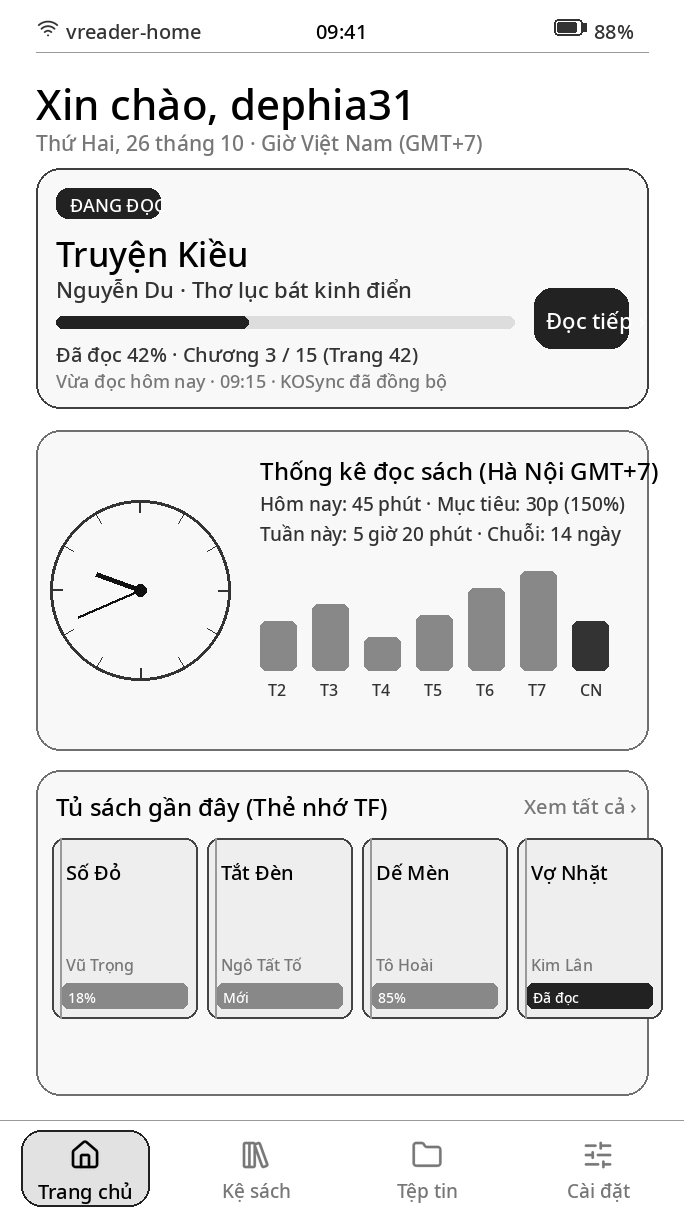
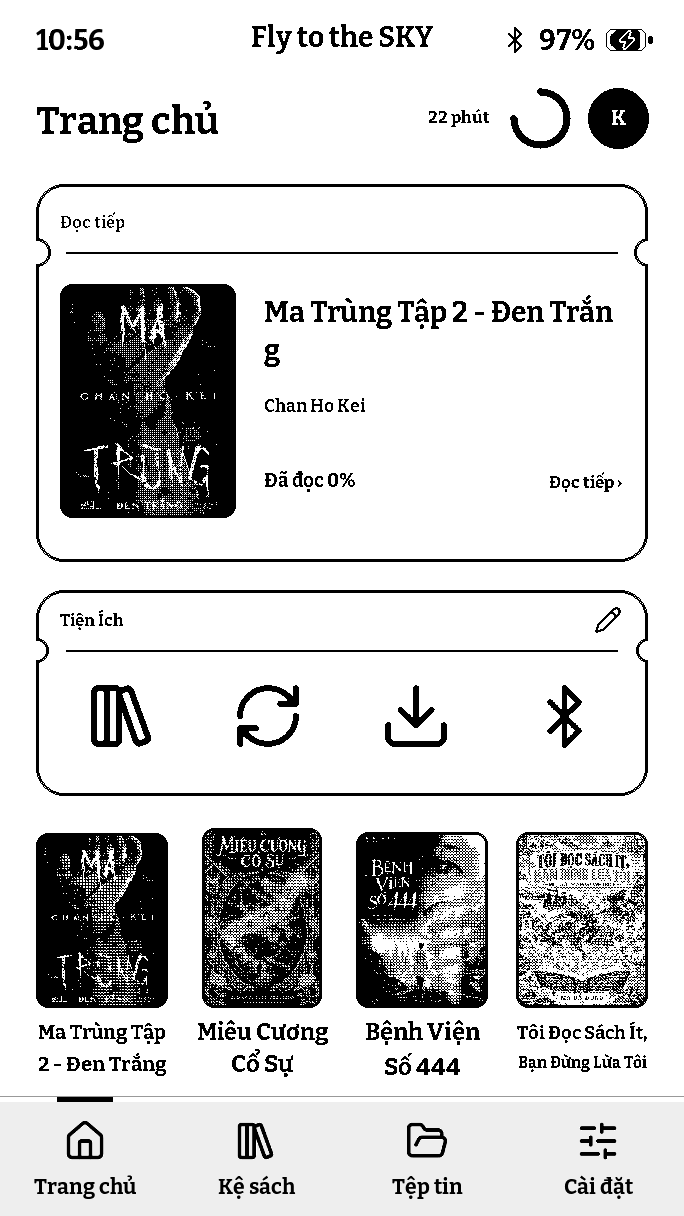
docs: show current Home and utility settings from device captures

Changed region(s): [[0.0307, 0.0, 0.9825, 1.0], [0.2149, 0.0, 0.2763, 0.0312], [0.7368, 0.0312, 0.7675, 0.0625]]

diff --git a/README.md b/README.md
@@ -1,7 +1,7 @@
 # dpReader — Firmware Đọc Sách Tiếng Việt Chuyên Biệt cho Metalio E-ink 4 Plus (`metalio4.7`)
 
 <p align="center">
-  <img src="docs/screenshots/00_overview_banner.png" alt="dpReader Overview Banner" width="100%">
+  <img src="docs/screenshots/01_home_dashboard.png" alt="Trang chủ dpReader 1.2.5 — ảnh chụp từ thiết bị" width="320">
 </p>
 
 <p align="center">
@@ -16,12 +16,14 @@
 
 ---
 
-## 📸 Giao diện Thực tế Firmware dpReader
+## 📸 Giao diện dpReader
 
-| Trang chủ (`app_dashboard.c`) | Kệ sách & Hộp thoại nạp sách (`app_book.c`) |
+Ảnh Home và thiết lập Tiện Ích được lấy trực tiếp từ bộ đệm màn hình thiết bị chạy giao diện 1.2.5. Các ảnh minh họa cũ bên dưới sẽ được thay dần theo giao diện hiện tại.
+
+| Home mới | Thiết lập Tiện Ích |
 | :---: | :---: |
-| <img src="docs/screenshots/01_home_dashboard.png" width="360" alt="Trang chủ dpReader"> | <img src="docs/screenshots/02_bookshelf.png" width="360" alt="Kệ sách Tiếng Việt"> |
-| *Thẻ Đọc tiếp, Đồng hồ Analog, Thống kê đọc trong tháng (GMT+7)* | *Lưới kệ sách tác phẩm kinh điển & Menu nạp sách WiFi / OPDS* |
+| <img src="docs/screenshots/01_home_dashboard.png" width="360" alt="Home dpReader 1.2.5 chụp từ thiết bị"> | <img src="docs/screenshots/08_home_utilities_settings.png" width="360" alt="Thiết lập 4 shortcut, nhãn và viền icon"> |
+| *Đọc tiếp, Tiện Ích ẩn nhãn/viền và 4 sách từng đọc.* | *Chọn 4 shortcut; bật/tắt nhãn và viền, rồi lưu cùng cấu hình.* |
 
 | Màn hình đọc sách & KOSync (`app_book.c`) | Thư viện sách online OPDS (`opds_client.c`) |
 | :---: | :---: |
@@ -40,6 +42,14 @@
   <em>Giao diện Web Portal quản lý truyền sách WiFi, cấu hình máy chủ KOSync (<code>https://sync.vreader.cloud</code>) và thư viện OPDS (<code>https://sach.vreader.cloud:8443/opds</code>)</em>
 </p>
 
+### Mới trong phiên bản 1.2.5
+
+- **Home:** thẻ Đọc tiếp, thẻ **Tiện Ích** và 4 sách từng đọc theo chiều ngang.
+- **Tiện Ích:** chọn 4 shortcut như Đọc tiếp, Thư viện, OPDS, KoSync, Cài đặt, Wi-Fi, Bluetooth, OTA hoặc Tệp tin. Có thể bật/tắt nhãn và viền; khi ẩn nhãn, icon lớn và căn đều.
+- **Sao lưu chung trên SD:** lưu cấu hình hệ thống, thiết lập đọc và Tiện Ích trong `dpReader-settings.backup`, tại **Cài đặt → Sao lưu & Khôi phục cấu hình**.
+- **Tệp tin:** nút **Xóa tất cả** xóa các tệp trong thư mục đang mở sau khi xác nhận, giữ các thư mục con.
+- **Cài đặt:** bố cục Đèn nền & Rung thống nhất, chú thích và hộp xác nhận OTA phù hợp hơn khi dùng chữ lớn.
+
 ---
 
 ## ✨ Tính năng nổi bật trên dpReader
@@ -49,7 +59,7 @@
    - Tối ưu hóa bộ nhớ Flash và RAM nội bộ cho kết nối WiFi/TLS và điều khiển lật trang Bluetooth (BLE Page Turner).
 2. **Giao diện & Phông chữ Tiếng Việt 100%:**
    - Toàn bộ giao diện hệ thống, cài đặt, thông báo, màn hình khóa và cổng truyền sách Web Portal (`http://dpreader.local`) được Việt hóa hoàn toàn.
-   - Nhúng sẵn phông chữ hệ thống Tiếng Việt sắc nét (`Noto Sans Medium` `wght=500`, đầy đủ 134 ký tự Tiếng Việt dựng sẵn + dấu tổ hợp + ký hiệu điều hướng UI).
+   - Nhúng sẵn phông chữ hệ thống Tiếng Việt sắc nét **Bitter Bold**, hỗ trợ Tiếng Việt. Cỡ hệ thống 100% đã được tăng để dễ đọc hơn.
    - Thuật toán **ngắt dòng theo từ Tiếng Việt (Word-Wrap)** cho cả `EPUB` và `TXT` (không cắt ngang giữa âm tiết Tiếng Việt), tự động nhận diện mục lục Tiếng Việt (`Chương`, `Phần`, `Hồi`, `Quyển`, `Tập`, `Mục`, `Lời mở đầu`, `Ngoại truyện`...) và tìm kiếm sách không phân biệt dấu Tiếng Việt.
    - Đồng bộ giờ chuẩn Việt Nam (`GMT+7` / `ICT-7`) qua cụm máy chủ NTP `vn.pool.ntp.org`.
 3. **Đồng bộ tiến độ đọc KOReader Sync (`KOSync`):**
